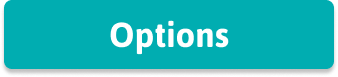
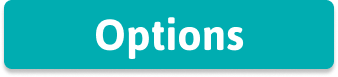
Fix UI Pertanyaan Simantik Luas

Changed region(s): [[0.2663, 0.2078, 0.7396, 0.7792]]

diff --git a/Assets/ResponsiveObject3D.cs b/Assets/ResponsiveObject3D.cs
@@ -1,0 +1,28 @@
+using System.Collections;
+using System.Collections.Generic;
+using UnityEngine;
+
+public class ResponsiveObject3D : MonoBehaviour
+{
+    public float zDistance = 8.019809f; // seberapa jauh dari kamera (dalam meter)
+    public Vector2 viewportAnchor = new Vector2(3f, -1.35f); // pojok kanan atas
+
+    private Camera arCamera;
+
+    void Start()
+    {
+        arCamera = Camera.main;
+    }
+
+    void LateUpdate()
+    {
+        if (arCamera == null) return;
+
+        Vector3 viewportPos = new Vector3(viewportAnchor.x, viewportAnchor.y, zDistance);
+        Vector3 worldPos = arCamera.ViewportToWorldPoint(viewportPos);
+        transform.position = worldPos;
+
+        // Opsional: selalu menghadap ke kamera
+        transform.LookAt(arCamera.transform);
+    }
+}

diff --git a/Assets/Resources/Script/AksiObject.cs b/Assets/Resources/Script/AksiObject.cs
@@ -38,6 +38,8 @@ public class AksiObject : MonoBehaviour
 
     public static bool IsAnimasiPlay;
 
+
+
     private void Awake()
     {
         string sceneName = SceneManager.GetActiveScene().name;
